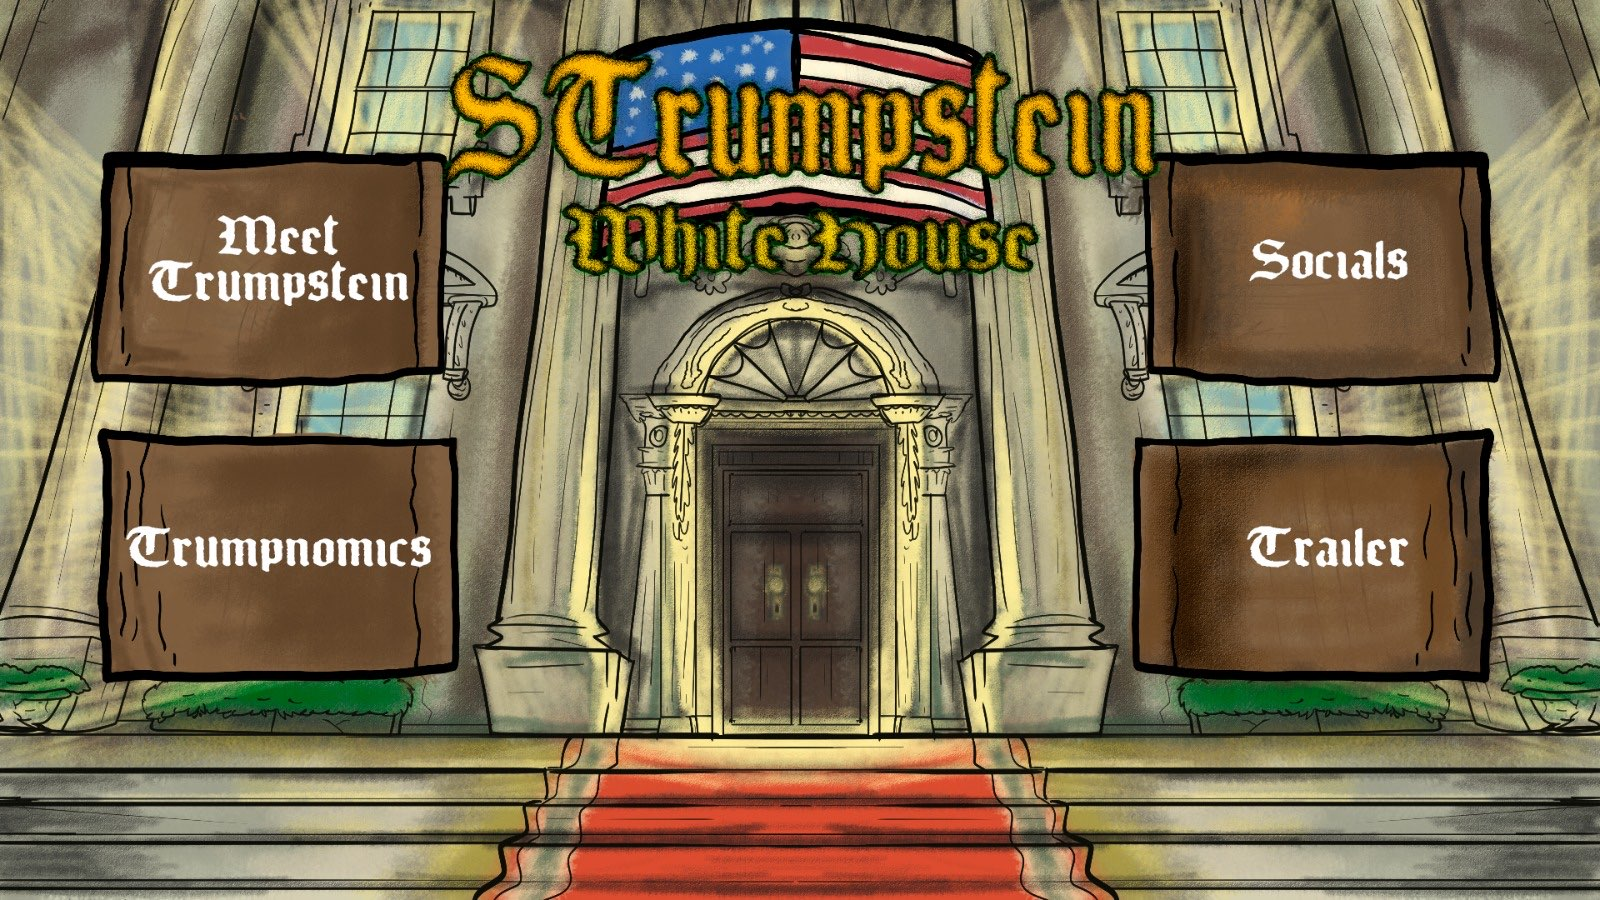
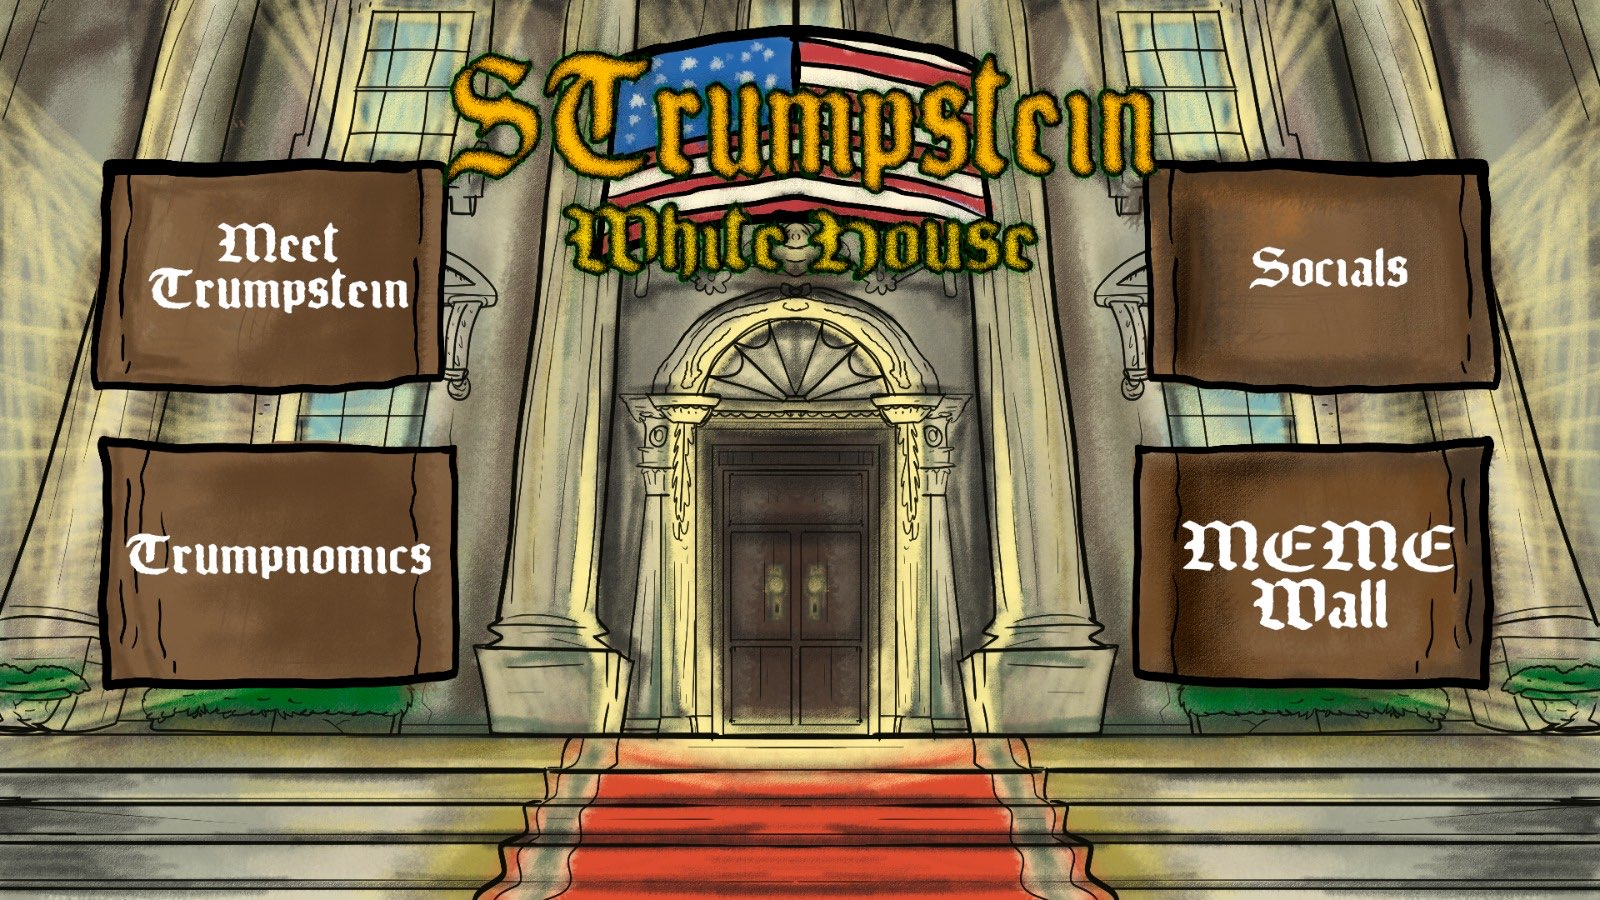
new

diff --git a/index.html b/index.html
@@ -16,7 +16,7 @@
     <a href="/meet.html" class="box" id="box1"></a>
     <a href="/socials.html" class="box" id="box2"></a>
     <a href="/tokenomics.html" class="box" id="box3"></a>
-    <a href="/trailer.html" class="box" id="box4"></a>
+    <a href="/meme.html" class="box" id="box4"></a>
 
     <map name="image-map">
       <area
@@ -49,8 +49,8 @@
       <area
         id="area4"
         target=""
-        alt="trailer"
-        title="trailer"
+        alt="meme mall"
+        title="meme mall"
         href=""
         coords="1138,437,1487,668"
         shape="rect"

diff --git a/meme.html b/meme.html
@@ -11,7 +11,7 @@
       <a href="/">go back</a>
     </div>
 
-    <img src="/banner 3.jpg" usemap="image-map" />
+    <img src="/meme.jpg" usemap="image-map" />
 
     <script
       src="https://code.jquery.com/jquery-3.6.4.slim.min.js"
